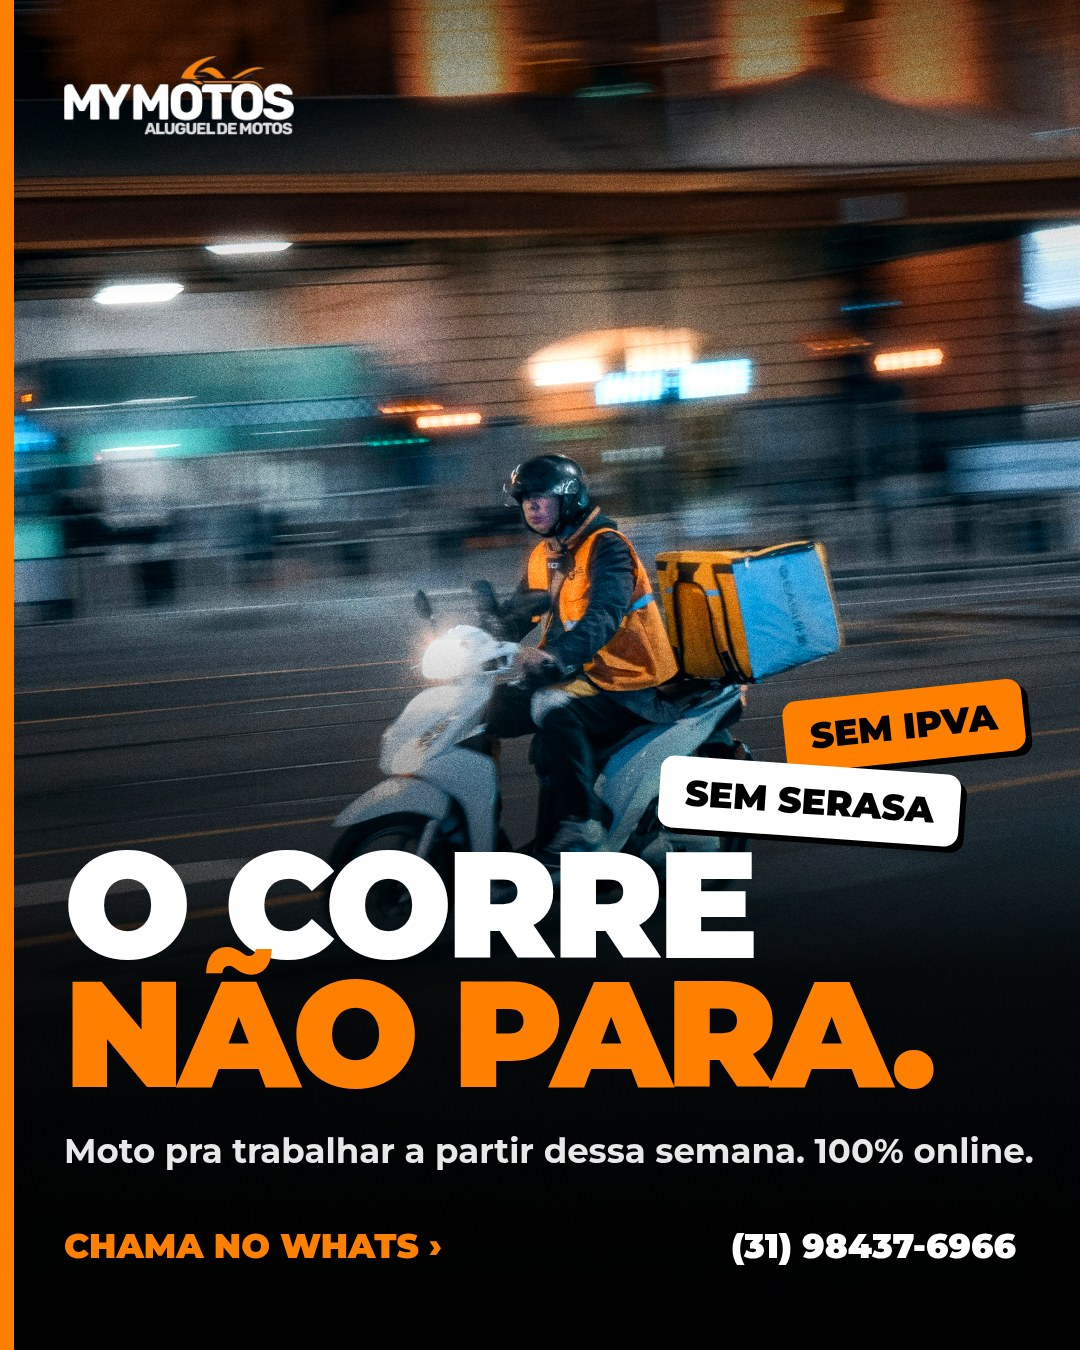
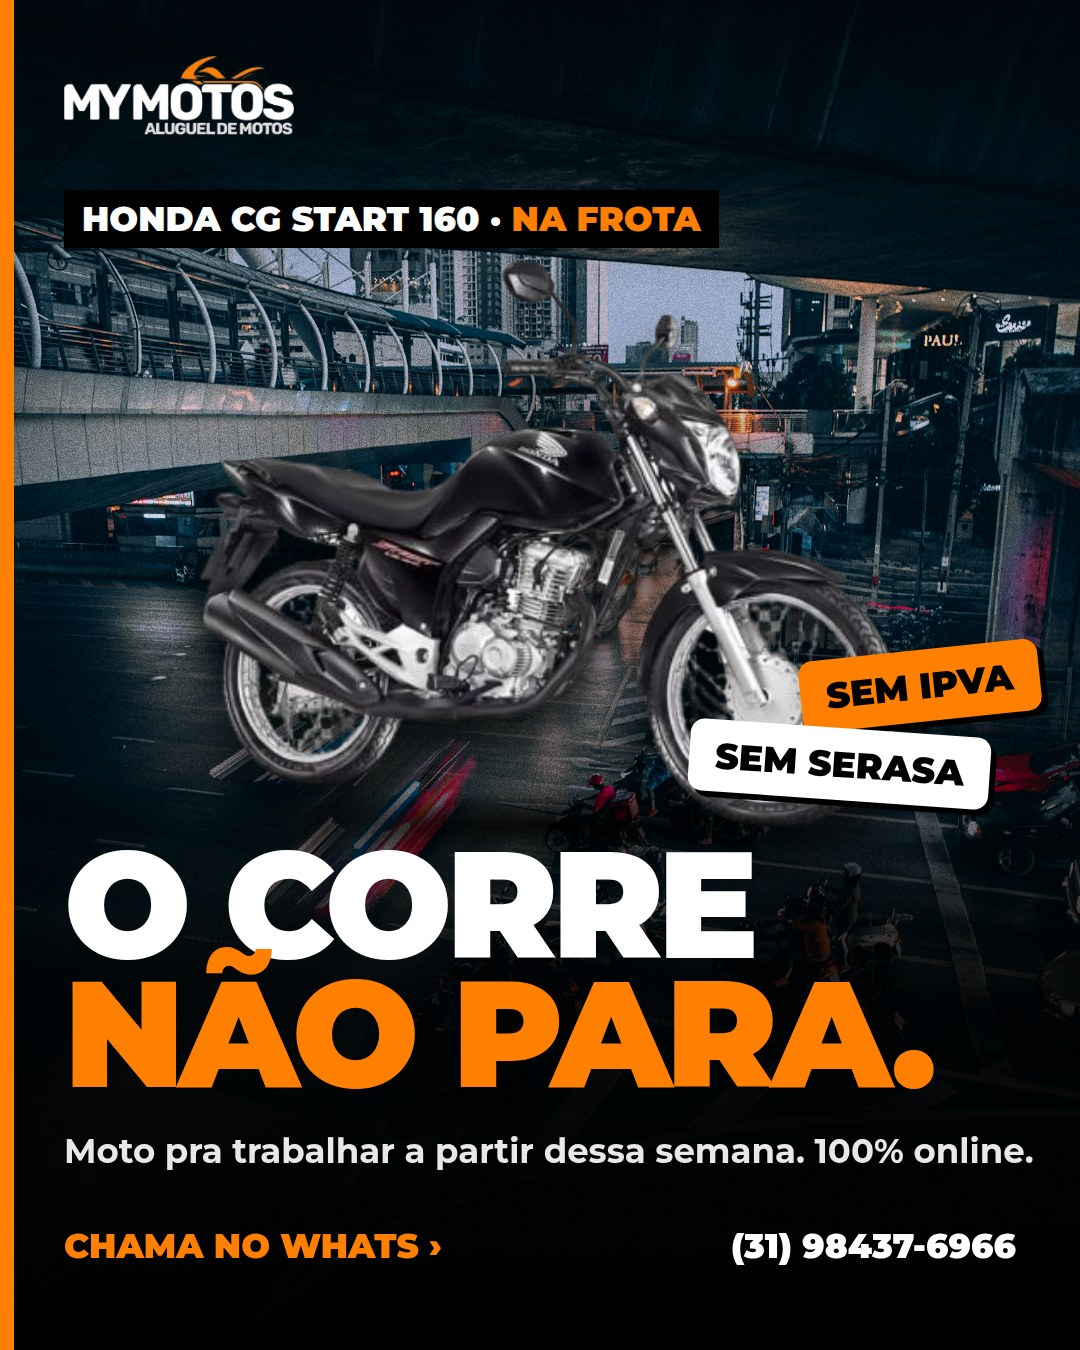
Estilo V2 aprovado: cenário real + moto da frota

diff --git a/kit/v2/story-foto.html b/kit/v2/story-foto.html
@@ -1,21 +1,25 @@
 <!doctype html><html><head><meta charset="utf-8"><link rel="stylesheet" href="base.css">
 <style>
 .c{width:1080px;height:1920px;background:#000}
-.photo{background-image:url(P/unsplash-09.jpg);background-position:40% 50%;filter:saturate(1.1) contrast(1.05)}
+.photo{background-image:url(P/unsplash-18.jpg);background-position:50% 50%;filter:saturate(1.1) contrast(1.1) brightness(.75)}
+.moto{left:110px;top:640px;width:860px;filter:drop-shadow(0 30px 25px rgba(0,0,0,.85))}
+.msh{left:150px;top:1340px;width:780px;height:70px;border-radius:50%;background:radial-gradient(closest-side,rgba(0,0,0,.95),rgba(0,0,0,0))}
 .shade{position:absolute;inset:0;background:linear-gradient(180deg,rgba(0,0,0,.85) 0%,rgba(0,0,0,.35) 32%,rgba(0,0,0,0) 48%,rgba(0,0,0,.5) 70%,rgba(0,0,0,.92) 88%)}
 .q{left:72px;top:260px;font-weight:800;font-size:48px;color:#fff}
 .qq{left:72px;right:72px;top:330px;font-weight:900;font-size:120px;line-height:.9;letter-spacing:-4px}
-.nao{left:600px;top:1040px;transform:rotate(-8deg);font-size:150px;padding:10px 44px;border-radius:24px}
-.txt{left:72px;right:72px;top:1300px;font-weight:700;font-size:40px;line-height:1.3}
+.nao{left:620px;top:600px;transform:rotate(-8deg);font-size:150px;padding:10px 44px;border-radius:24px}
+.txt{left:72px;right:72px;top:1400px;font-weight:700;font-size:40px;line-height:1.3}
 .txt b{color:#ff7f00}
-.btn{left:72px;top:1500px;background:#ff7f00;color:#000;font-weight:900;font-size:46px;padding:24px 40px;border-radius:999px}
+.btn{left:72px;top:1560px;background:#ff7f00;color:#000;font-weight:900;font-size:46px;padding:24px 40px;border-radius:999px}
 </style></head><body>
 <div class="c">
  <div class="photo"></div><div class="shade"></div><div class="grain"></div>
  <div class="abs q">Dúvida do dia:</div>
  <div class="abs qq">PRECISA DE<br><span style="color:#ff7f00">FIADOR?</span></div>
+ <div class="abs msh"></div>
+ <img class="abs moto" src="I/honda-pop-110i.png">
  <div class="abs sticker nao">NÃO.</div>
  <div class="abs txt">Na MyMotos é <b>sem fiador, sem cartão e sem consulta no Serasa.</b> Só CNH A definitiva.</div>
  <div class="abs btn">CHAMA NO WHATS ›</div>
- <img class="abs logo" style="right:72px;top:1512px;width:220px" src="I/mymotos-logo.png">
+ <img class="abs logo" style="right:72px;top:1572px;width:220px" src="I/mymotos-logo.png">
 </div></body></html>

diff --git a/kit/v2/feed-foto.html b/kit/v2/feed-foto.html
@@ -1,14 +1,17 @@
 <!doctype html><html><head><meta charset="utf-8"><link rel="stylesheet" href="base.css">
 <style>
 .c{width:1080px;height:1350px;background:#000}
-.photo{background-image:url(P/unsplash-05.jpg);background-position:50% 30%;filter:saturate(1.15) contrast(1.08)}
+.photo{background-image:url(P/unsplash-28.jpg);background-position:50% 35%;filter:saturate(1.1) contrast(1.1) brightness(.85)}
+.moto{left:190px;top:250px;width:720px;filter:drop-shadow(0 30px 25px rgba(0,0,0,.8))}
+.msh{left:200px;top:790px;width:700px;height:70px;border-radius:50%;background:radial-gradient(closest-side,rgba(0,0,0,.9),rgba(0,0,0,0))}
+.mname{left:64px;top:190px;z-index:2;font-weight:900;font-size:34px;background:#000;padding:8px 18px}.mname b{color:#ff7f00}
 .shade{position:absolute;inset:0;background:linear-gradient(180deg,rgba(0,0,0,.55) 0%,rgba(0,0,0,0) 22%,rgba(0,0,0,0) 45%,rgba(0,0,0,.85) 72%,#000 100%)}
 .bar{left:0;top:0;width:14px;height:1350px;background:#ff7f00}
 h1{margin:0;left:64px;right:64px;top:840px;font-size:150px;line-height:.86;letter-spacing:-6px;font-weight:900;text-transform:uppercase}
 h1 span{color:#ff7f00}
 .sub{left:64px;top:1130px;font-size:34px;font-weight:700;color:#e8e8e8}
-.st1{right:56px;top:690px;transform:rotate(-6deg);font-size:36px}
-.st2{right:120px;top:765px;transform:rotate(4deg);font-size:36px;background:#fff}
+.st1{right:40px;top:650px;transform:rotate(-6deg);font-size:36px}
+.st2{right:90px;top:728px;transform:rotate(4deg);font-size:36px;background:#fff}
 .foot{left:64px;right:64px;top:1225px;display:flex;justify-content:space-between;align-items:center;font-weight:900;font-size:34px}
 .foot .w{color:#ff7f00}
 </style></head><body>
@@ -16,6 +19,9 @@ h1 span{color:#ff7f00}
  <div class="photo"></div><div class="shade"></div><div class="grain"></div>
  <div class="abs bar"></div>
  <img class="abs logo" style="left:64px;top:56px" src="I/mymotos-logo.png">
+ <div class="abs mname">HONDA CG START 160 · <b>NA FROTA</b></div>
+ <div class="abs msh"></div>
+ <img class="abs moto" src="I/honda-cg-start-160.png">
  <div class="abs sticker st1">SEM IPVA</div>
  <div class="abs sticker st2">SEM SERASA</div>
  <h1 class="abs">O corre<br><span>não para.</span></h1>

diff --git a/kit/v2/feed-pixel.html b/kit/v2/feed-pixel.html
@@ -1,7 +1,7 @@
 <!doctype html><html><head><meta charset="utf-8"><link rel="stylesheet" href="base.css">
 <style>
 .c{width:1080px;height:1350px;background:#000;font-family:PX}
-.photo{background-image:url(pixel05.png);background-position:0 -90px;background-size:1080px 1350px;image-rendering:pixelated}
+.photo{background-image:url(pixelcg.png);background-position:0 -60px;background-size:1080px 1350px;image-rendering:pixelated}
 .scan{position:absolute;inset:0;background:repeating-linear-gradient(0deg,rgba(0,0,0,.18) 0 4px,transparent 4px 10px)}
 .hud{left:40px;right:40px;top:40px;display:flex;justify-content:space-between;font-size:30px;color:#fff;text-shadow:4px 4px 0 #000}
 .hud b{color:#ff7f00}

diff --git a/kit/v2/ESTILO-V2.md b/kit/v2/ESTILO-V2.md
@@ -1,4 +1,8 @@
-# Estilo V2 (aprovar com o Vinicius)
-- Foto real de fundo (kit/fotos) com gradiente escuro + textura (grain.png, overlay 35%).
-- Variações: (1) foto cheia + título gigante embaixo + selos tipo adesivo; (2) foto em duotone laranja + moto recortada da frota na frente com sombra; (3) pixel art 8-bit (foto pixelada com paleta da marca, fonte Press Start 2P) de vez em quando; (4) story com foto vertical + pergunta + selo "NÃO.".
-- Paths no HTML: F/ = node_modules/@fontsource (montserrat e press-start-2p), I/ = kit/img, P/ = kit/fotos.
+# Estilo V2 (APROVADO pelo Vinicius em 29/09/2026)
+Conceito: foto real como cenário (kit/fotos) + moto REAL da frota (kit/img) em destaque, com sombra no chão e drop-shadow.
+- Tratamento: gradiente escuro para leitura do texto, textura grain.png (overlay 35%), às vezes duotone laranja (grayscale + multiply #FF7F00).
+- Tipografia: Montserrat 900 gigante, caixa alta, palavra-chave em laranja. Selos tipo adesivo (laranja/branco, sombra dura preta, levemente girados).
+- Etiqueta da moto: "NOME DA MOTO · NA FROTA" em faixa preta.
+- Formatos: feed-foto.html, feed-duotone-moto.html, story-foto.html; feed-pixel.html (pixel art 8-bit: componha cenário + moto da frota no PIL e pixelize ~120x150 com paleta da marca) de vez em quando (1x por semana no máximo).
+- Paths: F/ = node_modules/@fontsource (montserrat e press-start-2p), I/ = kit/img, P/ = kit/fotos. grain.png e base.css em kit/v2.
+- Confira: moto inteira, sem encostar no título; selos sem sobrepor texto; nada importante em y>1550 nos stories.

diff --git a/kit/fotos/CREDITOS.md b/kit/fotos/CREDITOS.md
@@ -1,7 +1,4 @@
-# Fotos (Unsplash License: uso comercial livre, sem atribuição obrigatória)
-01 clYlmCaQbzY Rowan Freeman · 03 jm70AzcV5AQ Maksym Tymchyk · 05 h1p9F7HZtnU Jack Krzysik · 06 rA9hlPIOh7k Nicholas Ng
-07 4_Ha_neGOEY Nurulloh A.A · 09 -_EleK4f42c CJ · 11 WyejKgcq4t8 Samuel Branch · 13 1hfWiRqzxtM Anton Borzenkov
-14 _MkukMMe36E Tobias Reich · 15 AxQQiHeE-FU Ryunosuke Kikuno · 18 zTdh_ft2oRM Atharva Tulsi · 25 NHsKOZeKJqc Luke White
-28 HtW1E9DXX68 Joshua Rawson-Harris
-Melhores: 05 (entregador jaqueta laranja, vertical), 09 (entregador amarelo, vertical), 18 e 28 (trânsito à noite, vertical), 01/03/07 (entregador com baú, horizontal).
-Evite mostrar marcas de apps concorrentes. Não diga que a moto da foto é da frota.
+# Fotos de CENÁRIO (Unsplash License: uso comercial livre)
+13 1hfWiRqzxtM Anton Borzenkov (rua com prédios iluminados) · 18 zTdh_ft2oRM Atharva Tulsi (trânsito à noite, vertical) · 28 HtW1E9DXX68 Joshua Rawson-Harris (viaduto/trânsito, vertical)
+REGRA: foto de banco é só CENÁRIO. A moto em destaque é SEMPRE uma da frota (kit/img), recortada, com sombra no chão.
+Nunca usar scooter ou moto de outro modelo como protagonista. Nada de marcas de apps concorrentes.
